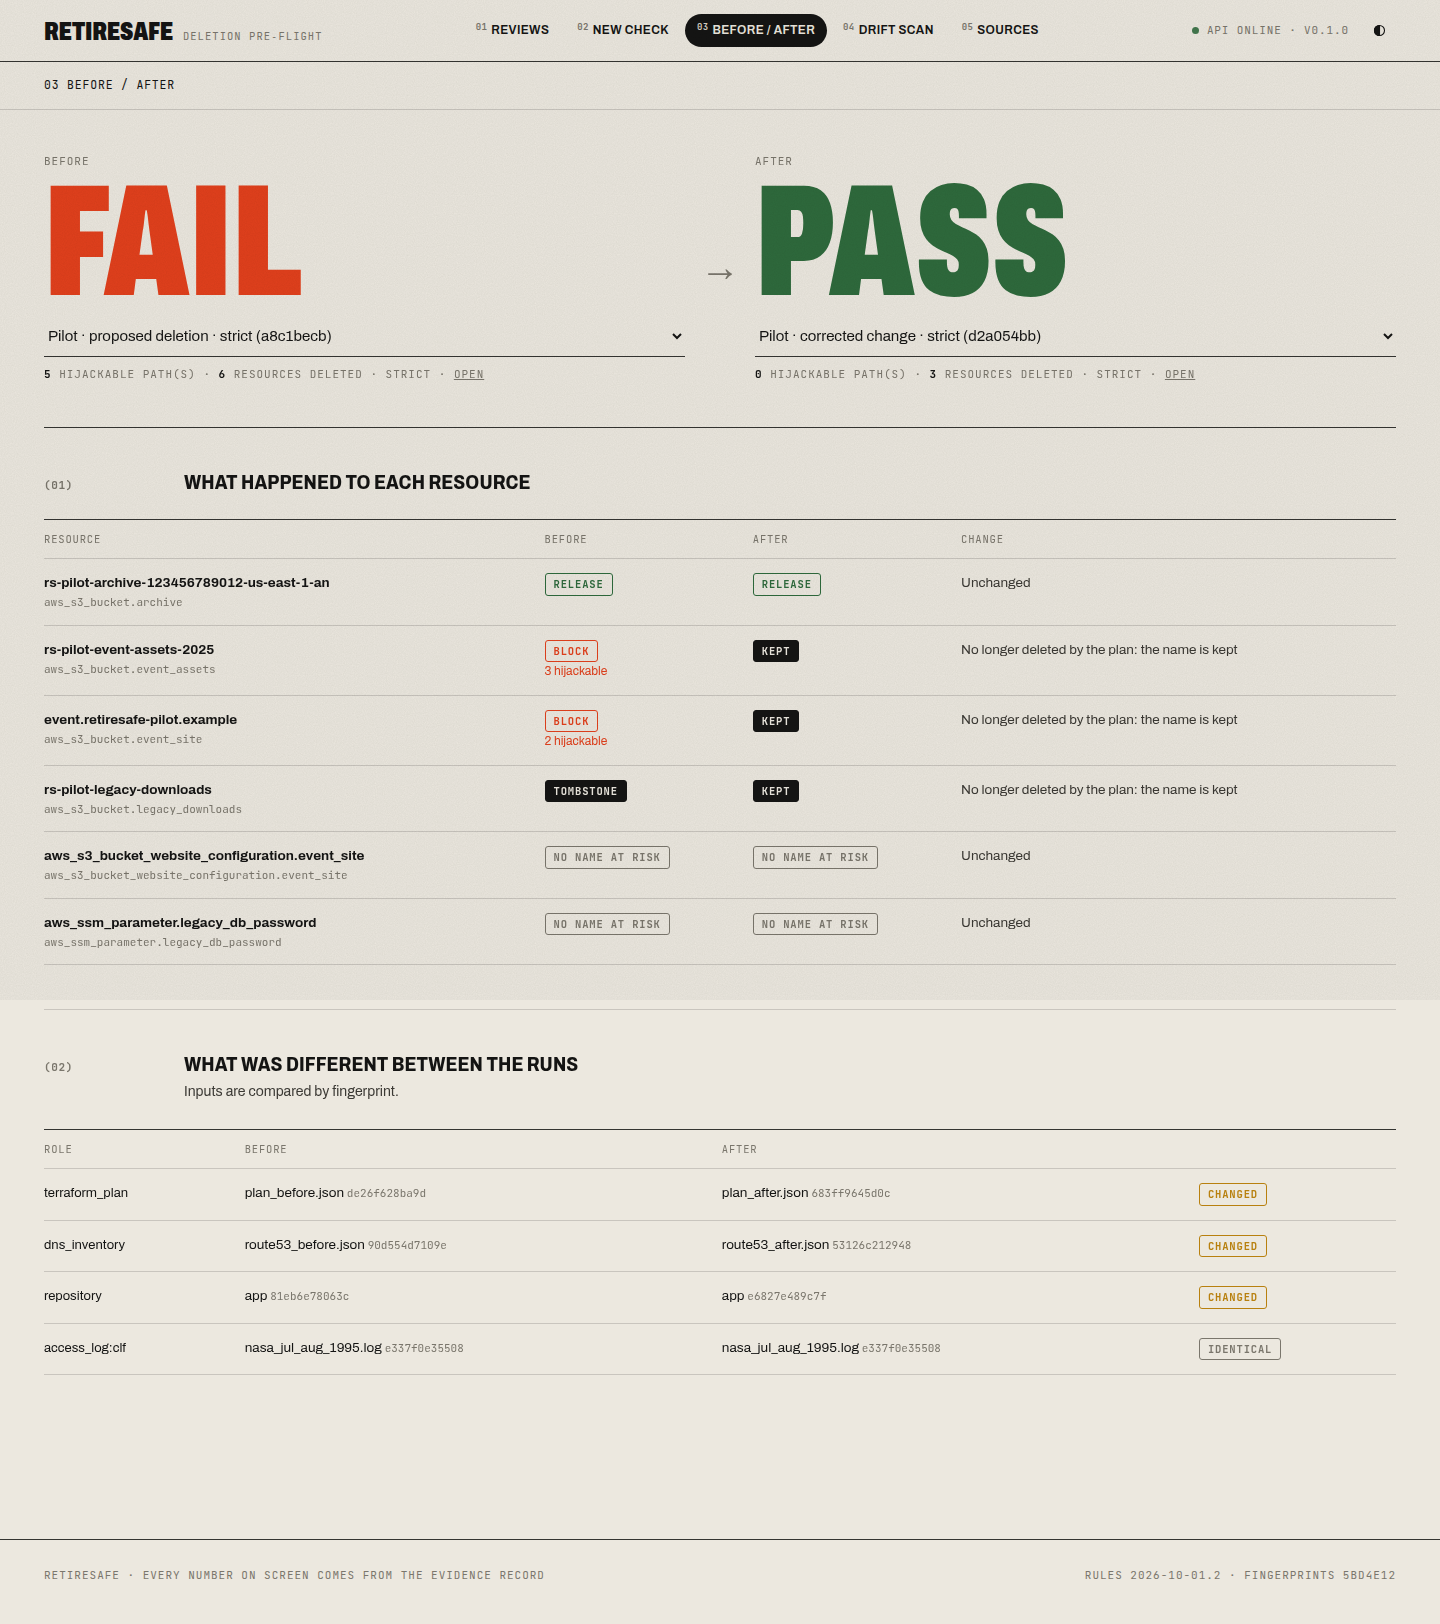
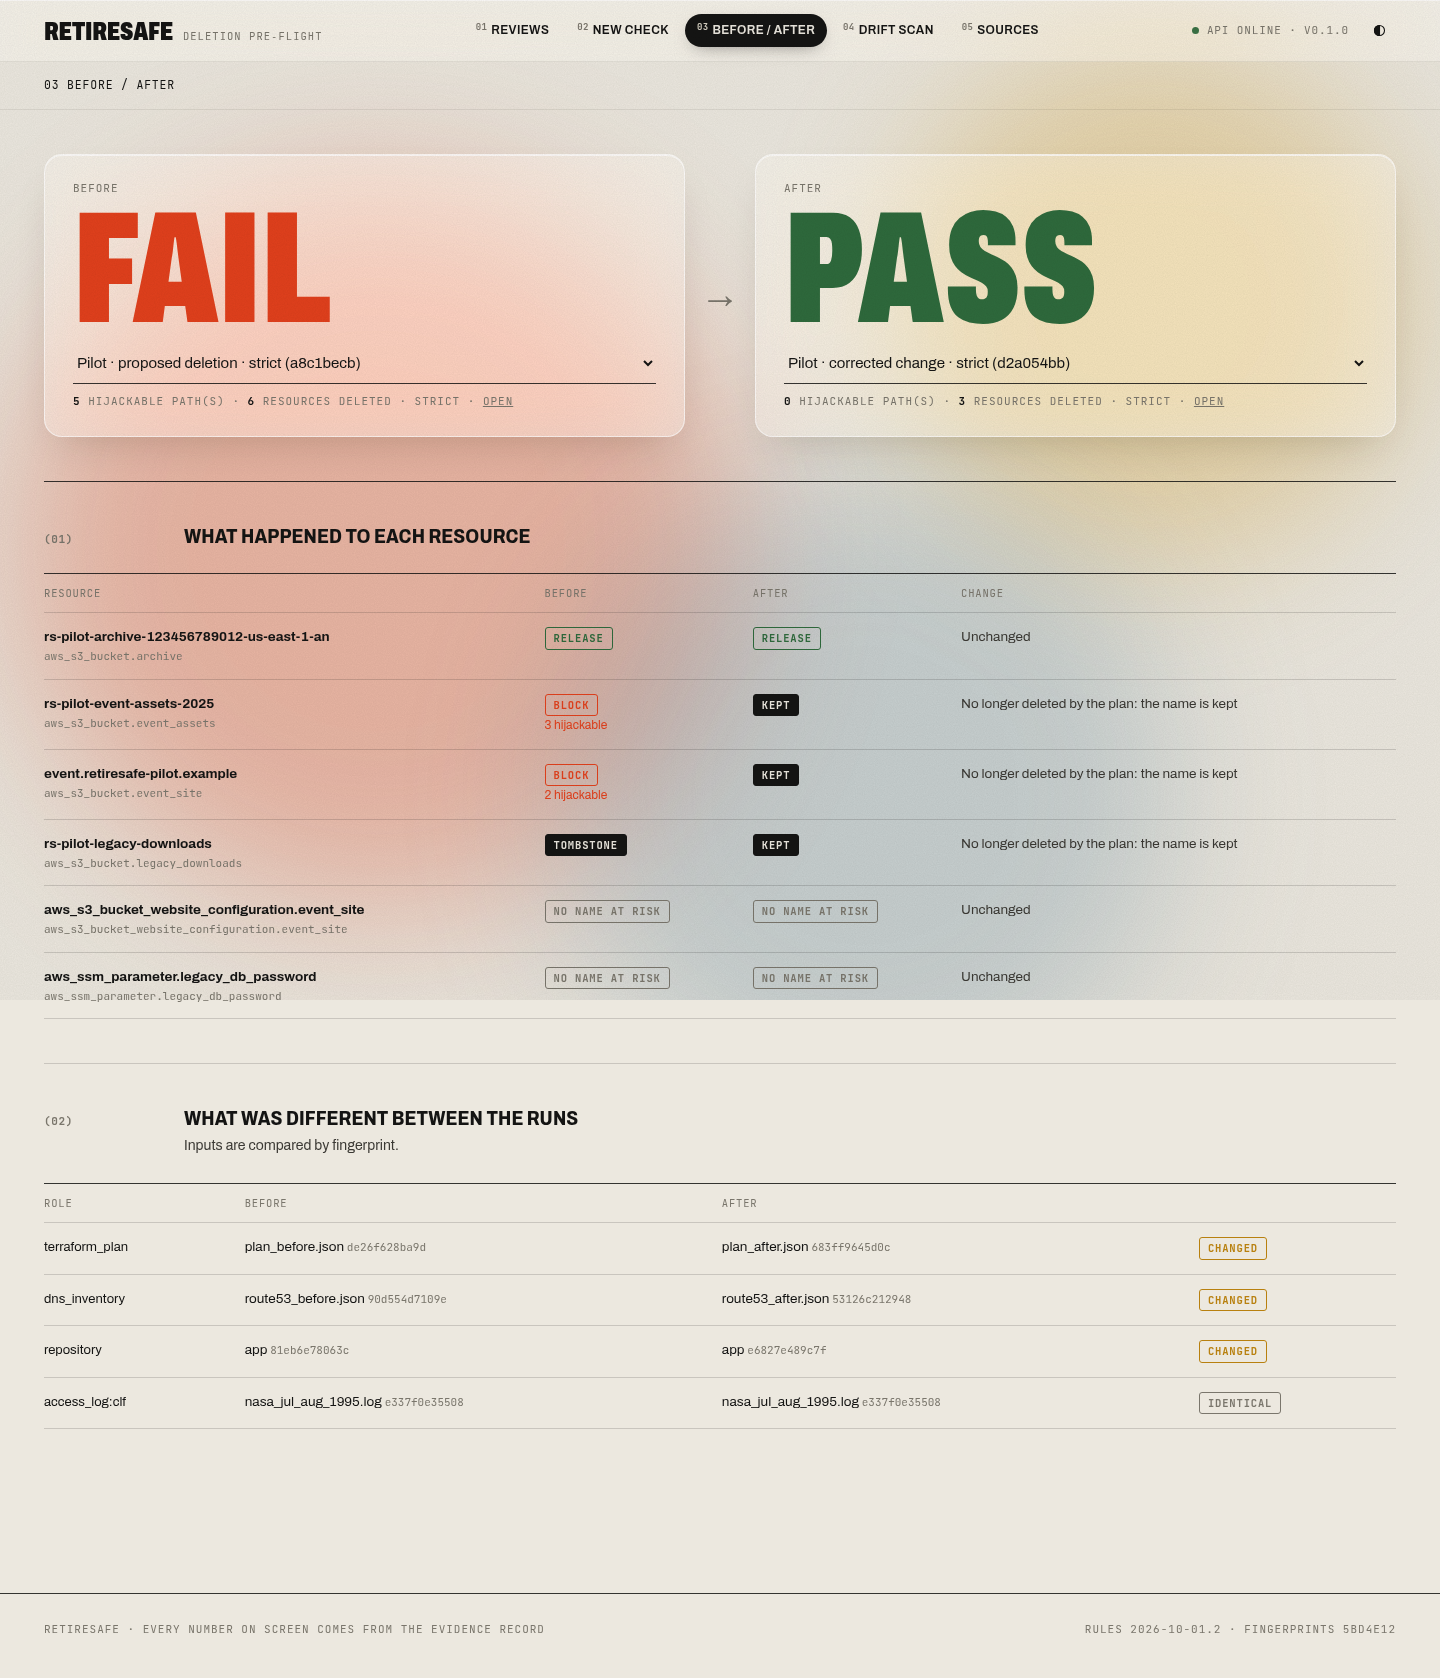
Add a glass layer to the console
Frosted panels (backdrop-filter with a solid fallback) over three slowly
drifting colour auras fixed behind the page, in light and dark themes:
masthead, verdict ledger, "What to do" card, takeover matrix, inspector,
side cards, form drop zones and submit bar, notices and code blocks.
Motion stops under prefers-reduced-motion; auras are hidden in print.

Claude-Session: https://claude.ai/code/session_01T5sVXqAZ7rGjsd5uG3JZh6

diff --git a/backend/retiresafe/web/css/app.css b/backend/retiresafe/web/css/app.css
@@ -449,6 +449,103 @@ details.fold[open] > summary::before { content: "− "; }
 .cell.true span { font: 700 17px/1 var(--sans); }
 .cell.unknown span { font-size: 14px; }
 
+/* ===================== Glass layer =====================
+   Frosted panels over slow-moving colour auras. Glass needs something behind it to blur,
+   so the auras sit fixed behind the page; panels use backdrop-filter with a solid fallback. */
+:root {
+  --glass: rgba(255, 253, 248, .42);
+  --glass-strong: rgba(255, 253, 248, .66);
+  --glass-edge: rgba(255, 255, 255, .7);
+  --glass-line: rgba(20, 20, 19, .08);
+  --glass-shadow: 0 1px 0 rgba(255, 255, 255, .75) inset, 0 18px 40px -18px rgba(40, 30, 10, .22);
+  --glass-blur: blur(22px) saturate(1.5);
+  --aura-1: rgba(226, 64, 28, .30);
+  --aura-2: rgba(212, 160, 40, .30);
+  --aura-3: rgba(70, 120, 150, .22);
+  --radius-g: 18px;
+}
+:root[data-theme="dark"] {
+  --glass: rgba(34, 33, 30, .42);
+  --glass-strong: rgba(34, 33, 30, .7);
+  --glass-edge: rgba(255, 255, 255, .09);
+  --glass-line: rgba(255, 255, 255, .07);
+  --glass-shadow: 0 1px 0 rgba(255, 255, 255, .06) inset, 0 24px 50px -20px rgba(0, 0, 0, .6);
+  --aura-1: rgba(255, 90, 51, .22);
+  --aura-2: rgba(224, 166, 58, .16);
+  --aura-3: rgba(90, 150, 190, .16);
+}
+html { background: var(--paper); }
+body { background: transparent; }
+.aura { position: fixed; inset: 0; z-index: -1; overflow: hidden; pointer-events: none; }
+.aura i { position: absolute; border-radius: 50%; filter: blur(70px); will-change: transform; }
+.aura i:nth-child(1) { width: 46vw; height: 46vw; left: -8vw; top: 8vh; background: var(--aura-1); animation: drift1 26s ease-in-out infinite alternate; }
+.aura i:nth-child(2) { width: 38vw; height: 38vw; right: -6vw; top: -10vh; background: var(--aura-2); animation: drift2 32s ease-in-out infinite alternate; }
+.aura i:nth-child(3) { width: 42vw; height: 42vw; right: 12vw; bottom: -18vh; background: var(--aura-3); animation: drift3 38s ease-in-out infinite alternate; }
+@keyframes drift1 { to { transform: translate(18vw, 22vh) scale(1.15); } }
+@keyframes drift2 { to { transform: translate(-16vw, 30vh) scale(.9); } }
+@keyframes drift3 { to { transform: translate(-22vw, -26vh) scale(1.1); } }
+
+.glass, .mast, .next, .fact, .stats, .inspector, .drop, .submitbar, .notice, .verdict-line,
+.versus .side, .conds, .step, .ledger, pre.code, .matrix, .toast, .typelist, .formula {
+  background: var(--glass-strong);
+}
+@supports ((backdrop-filter: blur(1px)) or (-webkit-backdrop-filter: blur(1px))) {
+  .glass, .mast, .next, .fact, .stats, .inspector, .drop, .submitbar, .notice, .verdict-line,
+  .versus .side, .conds, .step, .ledger, pre.code, .matrix, .toast, .typelist, .formula {
+    background: var(--glass);
+    -webkit-backdrop-filter: var(--glass-blur);
+    backdrop-filter: var(--glass-blur);
+  }
+}
+/* bars: full-bleed glass */
+.mast { border-bottom: 1px solid var(--glass-line); box-shadow: 0 1px 0 var(--glass-edge) inset; }
+.sub-bar { border-bottom-color: var(--glass-line); }
+/* cards */
+.next, .fact, .stats, .inspector, .versus .side, .conds, .step, .ledger, .matrix, .typelist {
+  border: 1px solid var(--glass-edge); border-radius: var(--radius-g); box-shadow: var(--glass-shadow);
+}
+.next { padding: 26px 28px; margin: 28px 0; }
+.next ol { border-top: 0; }
+.next li:last-child { border-bottom: 0; }
+.ledger { padding: 4px 22px 18px; margin-top: 4px; }
+.ledger div + div { border-left-color: var(--glass-line); }
+.conds { padding: 6px 22px; border-top: 1px solid var(--glass-edge); }
+.cond:last-child { border-bottom: 0; }
+.steps { border-top: 0; gap: 16px; }
+.step, .step + .step { padding: 24px; border-right: 1px solid var(--glass-edge); }
+.matrix { padding: 0 22px; border-top: 1px solid var(--glass-edge); }
+.mrow:last-child { border-bottom: 0; }
+.mrow .cell:not(.true) { background: var(--paper); }
+.cell.false span { background: transparent; }
+.inspector { margin: 12px 0; padding: 24px; border-bottom: 1px solid var(--glass-edge); background-image: none; }
+.fact { padding: 20px 22px 22px; border-top: 1px solid var(--glass-edge); }
+.fact + .fact { margin-top: 14px; }
+.stats { padding: 0 18px; border-top: 1px solid var(--glass-edge); border-bottom: 1px solid var(--glass-edge); }
+.versus { gap: 0; }
+.versus .side { padding: 26px 28px; }
+.typelist { padding: 12px 22px; border-top: 1px solid var(--glass-edge); }
+.drop { border-radius: var(--radius-g); border-color: var(--glass-edge); box-shadow: var(--glass-shadow); border-width: 1px; }
+.drop:hover, .drop.over { background: var(--glass-strong); border-color: var(--signal); }
+.drop.has { border-color: var(--ink); }
+.submitbar { margin: 0 calc(var(--pad) * -1); padding: 16px var(--pad); border-top: 1px solid var(--glass-edge); }
+.notice, .verdict-line { border-radius: 12px; border: 1px solid var(--glass-edge); border-left-width: 3px; box-shadow: var(--glass-shadow); }
+.notice { border-left-color: var(--ink); }
+.notice.warn, .verdict-line.warn { border-left-color: var(--ochre); }
+.notice.err, .verdict-line.bad { border-left-color: var(--signal); }
+.verdict-line.ok { border-left-color: var(--green); }
+.formula { border-radius: 12px; padding: 12px 16px; border: 1px solid var(--glass-edge); border-left: 3px solid var(--ochre); }
+pre.code { border: 1px solid var(--glass-edge); border-radius: 12px; }
+.toast { background: rgba(20, 20, 19, .72); color: #f2eee6; border: 1px solid rgba(255, 255, 255, .12); }
+/* buttons get a frosted resting state */
+.btn:not(.primary):not(.ghost) { background: var(--glass); -webkit-backdrop-filter: var(--glass-blur); backdrop-filter: var(--glass-blur); }
+.btn:not(.primary):not(.ghost):hover { background: var(--ink); }
+.nav a.on { box-shadow: 0 6px 18px -8px rgba(20, 20, 19, .5); }
+/* index rows: glass highlight instead of an opaque fill */
+.irow { border-radius: 14px; border-bottom-color: var(--glass-line); }
+.irow::before { border-radius: 14px; background: var(--ink); opacity: .92; }
+/* dark theme: cells sit on dark paper */
+:root[data-theme="dark"] .stamp { background: rgba(0, 0, 0, .2); }
+
 @media (prefers-reduced-motion: reduce) {
   *, *::before, *::after { animation: none !important; transition: none !important; }
 }
@@ -464,6 +561,9 @@ details.fold[open] > summary::before { content: "− "; }
   .nav { grid-column: 1 / -1; justify-content: flex-start; order: 3; overflow-x: auto; flex-wrap: nowrap; }
   .status span:last-child { display: none; }
   .sec-hd, .form-sec, .next, .src, .inspector { grid-template-columns: minmax(0, 1fr); gap: 10px; }
+  .next, .inspector, .fact, .versus .side { padding: 18px; }
+  .matrix { padding: 0 14px; }
+  .aura i { filter: blur(50px); }
   .src > *, .sec-hd > *, .form-sec > * { min-width: 0; }
   table.t { display: block; overflow-x: auto; }
   .gate { grid-template-columns: 1fr; gap: 20px; }
@@ -487,5 +587,5 @@ details.fold[open] > summary::before { content: "− "; }
   .typelist { columns: 1; }
 }
 @media print {
-  .mast, .sub-bar, .actions, .btn, body::before { display: none !important; }
+  .mast, .sub-bar, .actions, .btn, .aura, body::before { display: none !important; }
 }

diff --git a/backend/retiresafe/web/index.html b/backend/retiresafe/web/index.html
@@ -11,6 +11,7 @@
   <script type="module" src="js/app.js"></script>
 </head>
 <body>
+  <div class="aura" aria-hidden="true"><i></i><i></i><i></i></div>
   <header class="mast">
     <a class="wordmark" href="#/" aria-label="RetireSafe home"><b>RetireSafe</b><span>Deletion pre‑flight</span></a>
     <nav class="nav" aria-label="main">

diff --git a/docs/RESEARCH_LOG.md b/docs/RESEARCH_LOG.md
@@ -91,3 +91,7 @@ Full scorecard: [08_negatives_and_mitigations.md](08_negatives_and_mitigations.m
   * plain-language condition names ("Still pointed at", "Still used")
   * a required-field marker and an "Advanced" fold on the form
   * a responsive layout checked at 390 px for horizontal overflow
+* **Glass layer (requested):**
+  * Frosted panels (`backdrop-filter`, with a solid fallback where unsupported) over three slow-drifting colour auras fixed behind the page.
+  * Applied to the masthead, the verdict ledger, the "What to do" card, the takeover matrix, the inspector, side cards, the form drop zones and submit bar, notices and code blocks.
+  * The auras stop under `prefers-reduced-motion` and are hidden in print.
